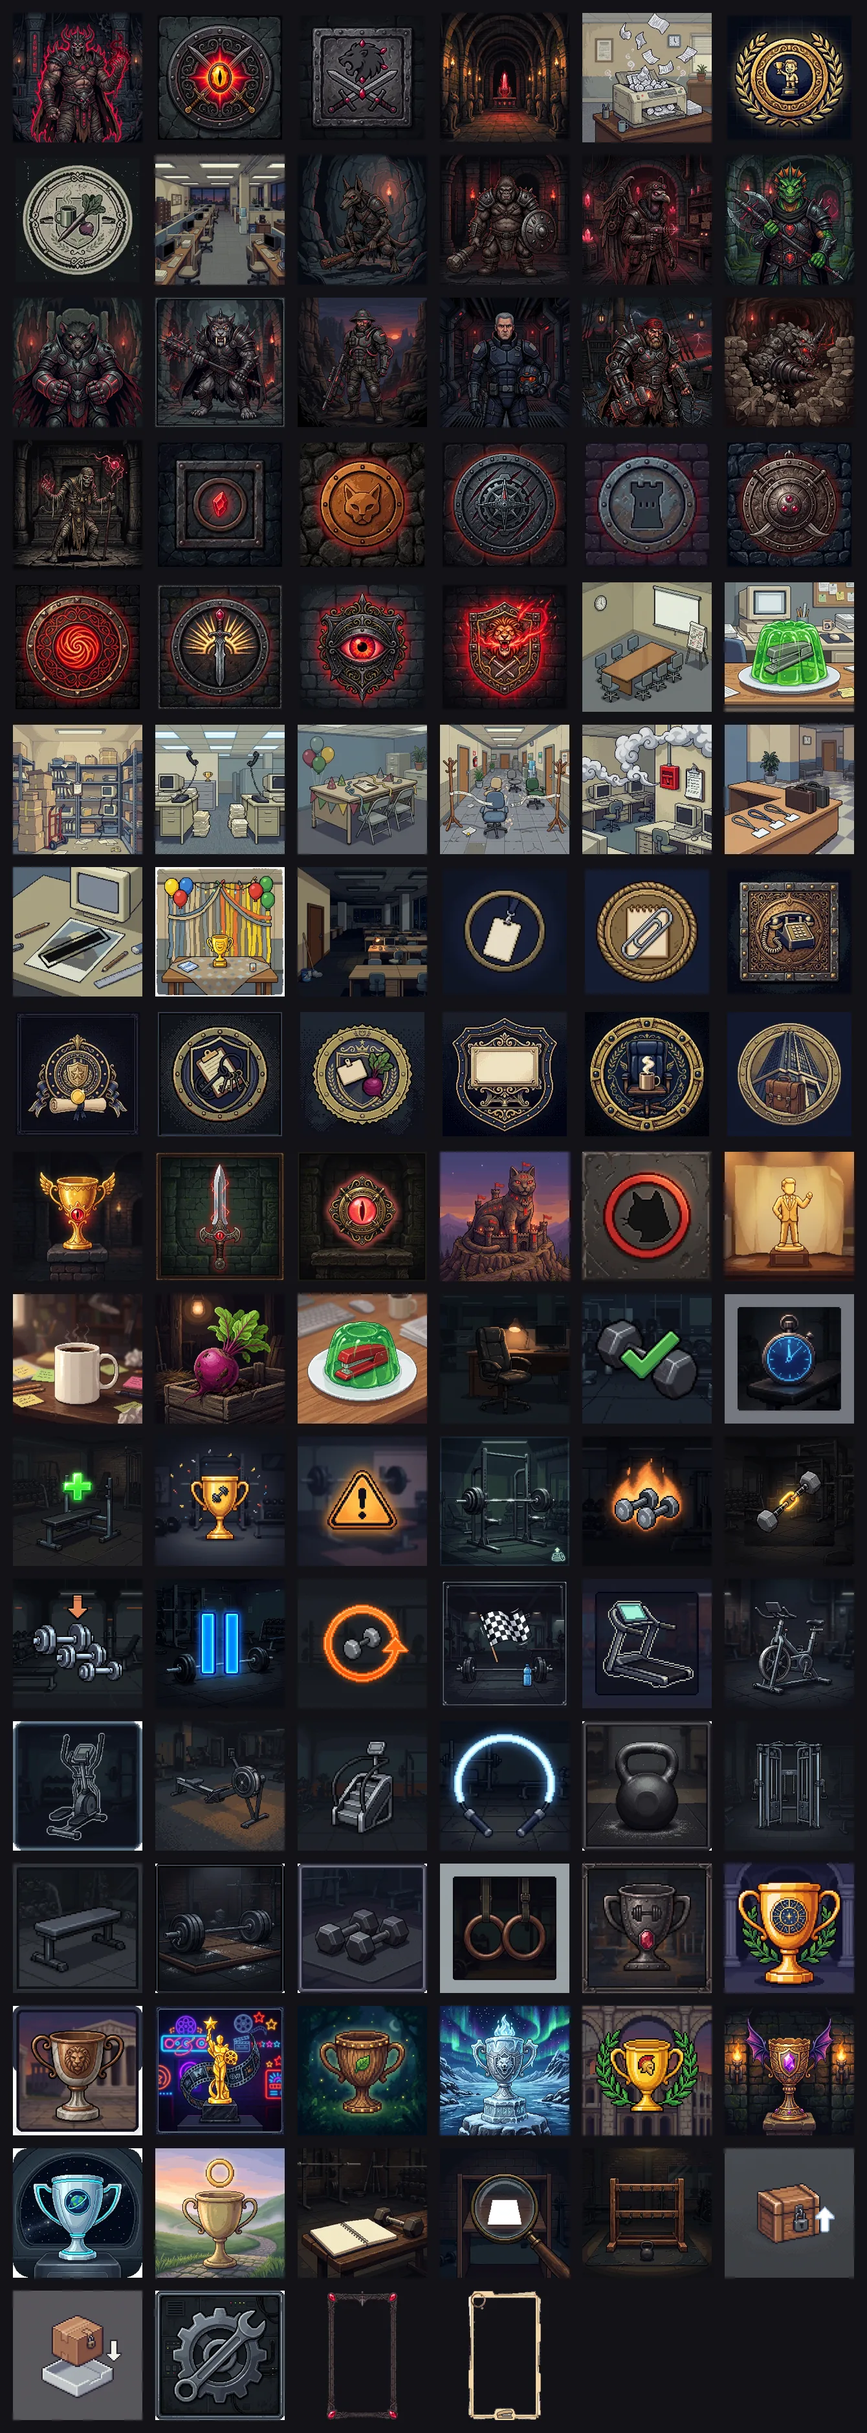
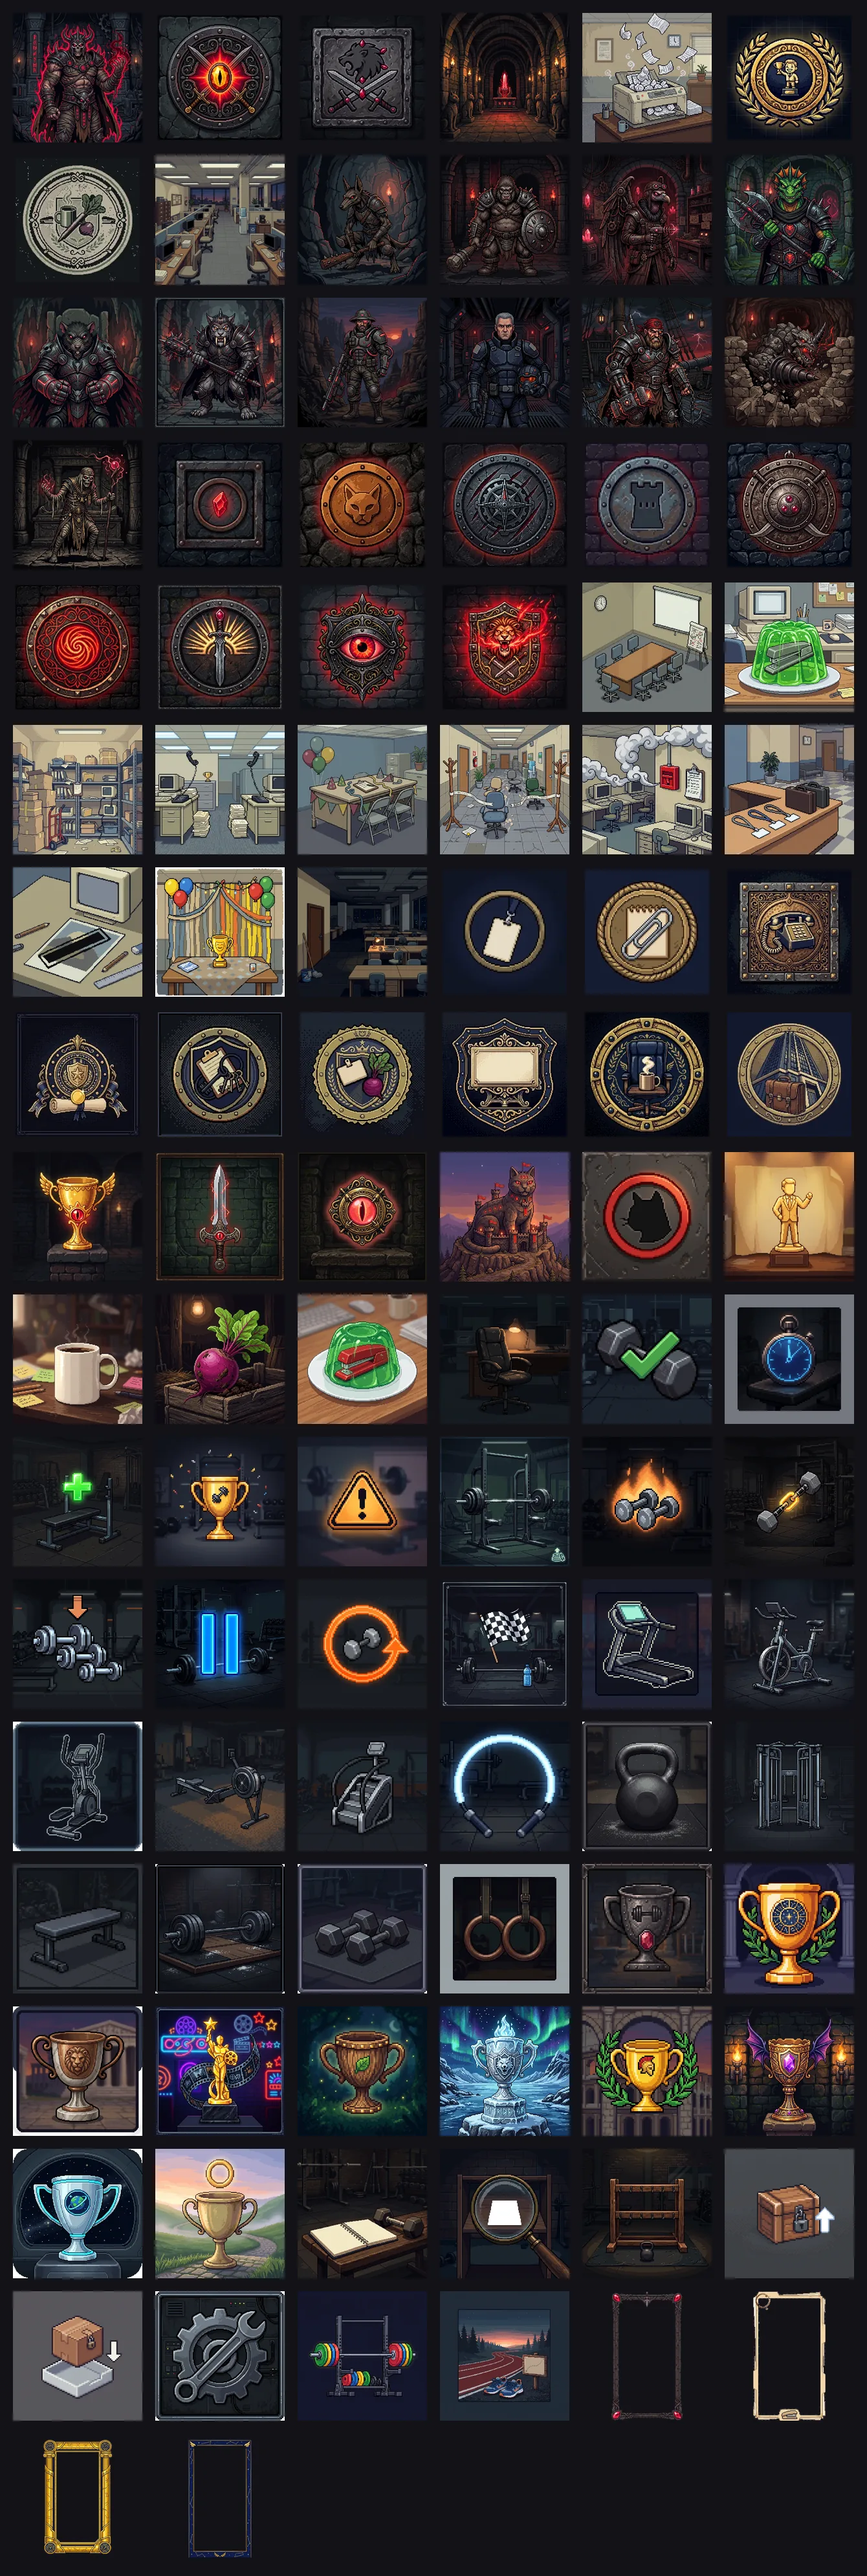
Artes lote 11 (final): fecha cartela 10 (98/98) + molduras do Zodiaco
Calculadora de anilhas e Sem corridas fecham o plano editorial 98/98. Duas molduras candidatas do Card do tema Cavaleiros do Zodiaco (Ouro do Santurario e Cosmo) com alfa por keying revisado em provas sobre card; fora do CORE, sem vinculo com a UI. Manifesto com 104 registros. Corrige tambem checagem de UI dependente da data real (descanso de deload automatico) que quebrava a suite no fechamento - somente o teste, sem mudar formulas.

diff --git a/tests/ui/30_assistente_sessao.js b/tests/ui/30_assistente_sessao.js
@@ -114,7 +114,10 @@ check('migração do save legado roda sem erro', migrationLoadOk);
 check('logs e progresso antigo migram para o tema que estava ativo', ev("activeGameThemeId === 'roma' && logs.length === 1 && logs[0].xpTheme === 'roma' && missionsXpTotal === 123 && themeGameSaves.roma.missionsClaimed['2026-W41'] === true && themeGameSaves.roma.bossPortraits.b0.includes('roma')"));
 check('testes, peso e deload são carregados como dados compartilhados', ev("tests[0].name === 'Teste compartilhado' && weightLog[0].peso === 94 && deloadWeeks.join() === '2026-W41'"));
 const legacyRomaXP = ev("computeThemeXPCtx('roma').xp");
-check('XP de treino, missão e descanso fica somente no tema migrado', legacyRomaXP > 0 && ev("computeThemeXPCtx('classico').xp === 0") && ev("themeGameSaves.roma.deloadRestDays.length === 7"), legacyRomaXP);
+// Conta só os 7 dias da W41 legada: dias de descanso de semanas de deload
+// automáticas posteriores (conforme a data real da execução) são legítimos
+// e não podem quebrar esta checagem.
+check('XP de treino, missão e descanso fica somente no tema migrado', legacyRomaXP > 0 && ev("computeThemeXPCtx('classico').xp === 0") && ev("themeGameSaves.roma.deloadRestDays.filter(d => d >= '2026-10-05' && d <= '2026-10-11').length === 7"), legacyRomaXP);
 const romaSaveBeforeSwitch = ev('JSON.stringify(themeGameSaves.roma)');
 ev("changeGameTheme('classico'); missionsXpTotal = 999; missionsClaimed = { '2026-W42': true }; seasons = { start: '2026-10-12', completed: [] }; bossPortraits = { classicoOnly: 'classico' }; saveGameState();");
 check('trocar para outro jogo não altera o save de Roma', ev('JSON.stringify(themeGameSaves.roma)') === romaSaveBeforeSwitch);

diff --git a/scripts/prepare-art-lote1.py b/scripts/prepare-art-lote1.py
@@ -363,6 +363,14 @@ PECAS = [
     ('ut-configuracoes', 'Configurações', 'app', 'utilitarios',
      'lote10-configuracoes.png', 'utilitarios/configuracoes.webp',
      (512, 512), 'nearest', 'images/artes/candidatos/utilitarios/configuracoes.webp (cartela 10; sem vínculo com UI)'),
+    # Lote 11 (final) — fecha a cartela 10 (Calculadora de anilhas, Sem
+    # corridas): 98/98 peças do plano editorial. Sem vínculo com UI.
+    ('ut-calculadora-de-anilhas', 'Calculadora de anilhas', 'app', 'utilitarios',
+     'lote11-calculadora-anilhas.png', 'utilitarios/calculadora-de-anilhas.webp',
+     (512, 512), 'nearest', 'images/artes/candidatos/utilitarios/calculadora-de-anilhas.webp (cartela 10 completa; sem vínculo com UI)'),
+    ('ut-vazio-corridas', 'Sem corridas', 'app', 'estados-vazios',
+     'lote11-sem-corridas.png', 'utilitarios/vazio-corridas.webp',
+     (512, 512), 'nearest', 'images/artes/candidatos/utilitarios/vazio-corridas.webp (cartela 10 completa, estado vazio; sem vínculo com UI)'),
 ]
 
 # Notas de revisão peça a peça que complementam a nota genérica do método
@@ -380,6 +388,9 @@ NOTAS_EXTRA = {
     'ut-backup': ' Divergência registrada: fundo cinza liso (diverge da família escura das demais peças). REGRA CUMPRIDA: caixa fechada com cadeado e seta para cima — sem check nem sinal de conclusão.',
     'ut-restauracao': ' REGRA CUMPRIDA: caixa fechada com cadeado suspensa sobre bandeja vazia e seta para baixo — nada importado, sem check nem sinal de conclusão.',
     'ut-configuracoes': ' Divergência registrada: moldura metálica decorativa em volta de todo o quadro.',
+    'ut-vazio-corridas': ' Divergência registrada: cena emoldurada com margem escura em volta do quadro; marca abstrata laranja nos tênis (sem texto).',
+    'zd-moldura-ouro-webp': ' Divergência registrada: medalhões de canto com glifos zodiacais decorativos; colunas do Santuário nas laterais.',
+    'zd-moldura-cosmo-webp': ' Divergência registrada: primeira geração descartada na revisão (brilho roxo sobre o xadrez deixava resíduo nos cantos após o keying); geração final com bordas sólidas limpas e asas menores nos cantos superiores.',
     'tf-classico': ' Divergência registrada: moldura metálica decorativa em volta de todo o quadro.',
     'tf-zodiaco': ' Divergência registrada: roda do zodíaco com glifos/constelações abstratos ilegíveis nos segmentos.',
     'tf-hercules': ' Divergência registrada: moldura escura arredondada com cantos externos claros.',
@@ -408,6 +419,17 @@ MOLDURAS = [
      'lote1-moldura-office.png', 'office/molduras/moldura-office',
      [(200, 250)], [(118, 108)],  # semente extra: xadrez ilhado dentro do anel do café
      'Overlay de moldura do Card (referência 1080×1920); precisa de alfa confiável + teste nos canvases 1080×1920/1080×1080 antes de virar em uso'),
+    # Lote 11 — novas molduras do Card do tema zodiaco (Cavaleiros do
+    # Zodíaco): duas candidatas geradas; a moldura em uso segue a desenhada
+    # por código ('ouro' em js/cartoes.js) até teste nos canvases reais.
+    ('zd-moldura-ouro', 'Moldura Zodíaco — Ouro do Santuário', 'zodiaco',
+     'lote11-moldura-zodiaco-ouro.png', 'zodiaco/molduras/moldura-zodiaco-ouro',
+     [(170, 255)], [],
+     'Overlay de moldura do Card do tema zodiaco (referência 1080×1920); candidata — precisa de alfa confiável + teste nos canvases 1080×1920/1080×1080 antes de virar em uso'),
+    ('zd-moldura-cosmo', 'Moldura Zodíaco — Cosmo', 'zodiaco',
+     'lote11-moldura-zodiaco-cosmo.png', 'zodiaco/molduras/moldura-zodiaco-cosmo',
+     [(170, 255)], [],
+     'Overlay de moldura do Card do tema zodiaco (referência 1080×1920); candidata — precisa de alfa confiável + teste nos canvases 1080×1920/1080×1080 antes de virar em uso'),
 ]
 
 RESAMPLE = {'nearest': Image.Resampling.NEAREST, 'lanczos': Image.Resampling.LANCZOS}
@@ -428,7 +450,10 @@ def key_checker(im, bands, extra_seeds):
     px = im.load()
 
     def is_checker(r, g, b):
-        if max(r, g, b) - min(r, g, b) > 6:
+        # tolerância 12: o xadrez da moldura Cosmo do Zodíaco (lote 11) veio
+        # com leve tinta azulada (dif. ~10 entre canais); ouro/azul-marinho
+        # da arte têm dif. muito maior e não são atingidos.
+        if max(r, g, b) - min(r, g, b) > 12:
             return False
         y = (r + g + b) / 3
         return any(lo <= y <= hi for lo, hi in bands)
@@ -514,6 +539,24 @@ for pid, peca, tema, fname, dest, bands, extra, uso in MOLDURAS:
         continue
     im = Image.open(src).convert('RGB')
     rgba, pct = key_checker(im, bands, extra)
+    if pid == 'zd-moldura-cosmo':
+        # Lote 11: o xadrez da Cosmo tem manchas com tinta além da tolerância
+        # do flood-fill e deixava pontilhado residual. A moldura é retangular
+        # regular (medida na fonte: janela 110..657 × 129..1246; borda externa
+        # a partir de x=45/y=60), então a janela e o exterior são limpos por
+        # geometria revisada — só o anel da moldura mantém o alfa do keying.
+        from PIL import ImageDraw
+        alpha = rgba.getchannel('A')
+        d = ImageDraw.Draw(alpha)
+        w, h = alpha.size
+        d.rectangle([0, 0, w, 59], fill=0)
+        d.rectangle([0, 1317, w, h], fill=0)
+        d.rectangle([0, 0, 44, h], fill=0)
+        d.rectangle([724, 0, w, h], fill=0)
+        d.rectangle([109, 128, 658, 1247], fill=0)
+        rgba.putalpha(alpha)
+        hist = alpha.histogram()
+        pct = hist[0] / (w * h)
     # Mestre PNG sem perda fica FORA do Git (cache); só o WebP com alfa é versionado.
     mestre = SRC / 'derivados' / (dest + '.png')
     mestre.parent.mkdir(parents=True, exist_ok=True)
@@ -527,7 +570,7 @@ for pid, peca, tema, fname, dest, bands, extra, uso in MOLDURAS:
         saida=rel(saida), largura=rgba.width, altura=rgba.height,
         formato='webp', transparencia=f'alfa por keying do xadrez pintado ({pct:.0%} do quadro; mediana 3 no alfa)',
         bytes=saida.stat().st_size, local_de_uso=uso, estado='candidato',
-        notas='Gerada SEM alfa nativo (RGB com xadrez desenhado — não é transparência). Keying flood-fill revisado em prova sobre card; halo leve nas bordas internas aceito como candidato. Mestre PNG sem perda em ' + rel(mestre) + ' (fora do Git; o script regenera). Não usar como overlay final sem novo teste nos canvases reais.'))
+        notas='Gerada SEM alfa nativo (RGB com xadrez desenhado — não é transparência). Keying flood-fill revisado em prova sobre card; halo leve nas bordas internas aceito como candidato. Mestre PNG sem perda em ' + rel(mestre) + ' (fora do Git; o script regenera). Não usar como overlay final sem novo teste nos canvases reais.' + NOTAS_EXTRA.get(f'{pid}-webp', '')))
 
 # Provas leves para revisão (montagem por código; fora do cache do app)
 OUT_PROVAS.mkdir(parents=True, exist_ok=True)
@@ -564,7 +607,7 @@ for pid, peca, tema, fname, dest, bands, extra, uso in MOLDURAS:
     m = Image.open(p)
     fundo = card.resize(m.size, Image.LANCZOS)
     fundo.paste(m, (0, 0), m)
-    fundo.save(OUT_PROVAS / f'moldura-{tema}-sobre-card.webp', 'WEBP', quality=82, method=6)
+    fundo.save(OUT_PROVAS / (Path(dest).name + '-sobre-card.webp'), 'WEBP', quality=82, method=6)
 
 # 3) cartela de revisão com TODOS os derivados (grade regular, sem legendas;
 # candidatos e, após o cadastro dos temas, também os arquivos finais)

diff --git a/docs/ARTES_THUNDERCATS_OFFICE.md b/docs/ARTES_THUNDERCATS_OFFICE.md
@@ -117,6 +117,10 @@ Originais grandes em `.cache/artes-originais/lote*.png` (≈2 MB cada; `.cache/`
 
 **Lote 10 (chamadas 91–100) — fecha a cartela 9 e abre a cartela 10:** Troféu Gladiadores de Roma, Troféu Fantasia RPG, Troféu Comando Galáctico e Troféu Senhor dos Anéis (cartela 9 completa, 10/10); Diário sem registros, Busca sem resultados, Sem treinos salvos, Backup, Restauração e Configurações (cartela 10, 6/8; lista adotada de 8, faltam Calculadora de anilhas e Sem corridas). **Backup/Restauração revisadas contra a regra dura:** caixas fechadas com cadeado e seta de direção, sem check/abertura/conclusão — a confirmação é do sistema, nunca da ilustração (registrado por peça no manifesto).
 
+**Lote 11 (final, chamadas 101–102 + molduras) — fecha a cartela 10 e o plano editorial (98/98):** Calculadora de anilhas (barra montada no rack com anilhas coloridas ordenadas por tamanho) e Sem corridas (tênis ao lado da pista vazia ao amanhecer, quadro de rota em branco com trajeto pontilhado que se apaga). **Plano editorial completo: 98/98 peças produzidas.**
+
+**Molduras novas do Card — tema Cavaleiros do Zodíaco (lote 11, fora da contagem das 98):** duas candidatas geradas, `zodiaco/molduras/moldura-zodiaco-ouro.webp` (Ouro do Santuário: colunas gregas, medalhões zodiacais nos cantos) e `moldura-zodiaco-cosmo.webp` (Cosmo: azul-meia-noite, constelações, asas douradas). Alfa por keying do xadrez pintado, **revisado nas provas sobre card** (`docs/provas-lote1/moldura-zodiaco-*-sobre-card.webp`): a Ouro saiu limpa de primeira; a Cosmo teve a 1ª geração descartada (brilho roxo sobre o xadrez) e a 2ª precisou de limpeza geométrica da janela/exterior no pipeline (anel da moldura preservado do keying). **Seguem candidatas, fora do CORE e sem vínculo com a UI** — a moldura em uso do tema continua a `ouro` desenhada por código em `js/cartoes.js`; qualquer troca exige teste nos canvases 1080×1920/1080×1080 antes.
+
 Runas/marcas decorativas nos salões e placas são abstratas, **sem nomes, números ou legendas legíveis** (conforme especificação).
 
 ### 2.2 Imagens fornecidas pelo usuário
@@ -156,7 +160,7 @@ Nos lotes 1–5, os derivados nasceram em `images/artes/candidatos/` (fora do CO
 
 ### 2.4 Artes ainda pendentes
 
-**2 peças do plano editorial** (98 − 96 concluídas) + completude de tema: cada tema novo exige **24 arquivos** para a galeria (12 retratos + 10 patentes + 1 selo + 1 fundo). **ThunderCats (24/24) e The Office (24/24) foram cadastrados na galeria nesta PR** com aprovação explícita do usuário (§6): os 48 arquivos saíram de `images/artes/candidatos/` para os caminhos finais e os registros correspondentes do manifesto estão `em uso` (ids preservados). Restam como candidatos as 10 de identidade, 12 de treino, 12 de cardio/equipamentos, os 10 troféus (cartela 9 completa), as 6 de estados vazios/utilitários do lote 10 e as 2 molduras (infraestrutura fora da contagem; os fundos são completude de tema, não constavam nas 98).
+**0 peças pendentes do plano editorial — 98/98 concluídas (lote 11)** + completude de tema: cada tema novo exige **24 arquivos** para a galeria (12 retratos + 10 patentes + 1 selo + 1 fundo). **ThunderCats (24/24) e The Office (24/24) foram cadastrados na galeria nesta PR** com aprovação explícita do usuário (§6): os 48 arquivos saíram de `images/artes/candidatos/` para os caminhos finais e os registros correspondentes do manifesto estão `em uso` (ids preservados). Restam como candidatos as 10 de identidade, 12 de treino, 12 de cardio/equipamentos, os 10 troféus (cartela 9 completa), as 8 de estados vazios/utilitários (cartela 10 completa) e as 4 molduras (2 TC/Office + 2 novas do Zodíaco; infraestrutura fora da contagem; os fundos são completude de tema, não constavam nas 98).
 
 ## 3. Provas visuais (`docs/provas-lote1/`, montadas por código)
 
@@ -194,7 +198,7 @@ As listas enviadas somam **98** (o rótulo "94" do pedido não fecha com as list
 | 7 | Treino — séries e descanso | 12 | **12 (completa)** | 0 |
 | 8 | Cardio e equipamentos | 12 | **12 (completa)** | 0 |
 | 9 | Troféus dos temas existentes | 10 | **10 (completa)** | 0 |
-| 10 | Estados vazios e utilitários | 8 | 6 (lote 10) | 2 (Calculadora de anilhas, Sem corridas) |
+| 10 | Estados vazios e utilitários | 8 | **8 (completa, lote 11)** | 0 |
 
 Notas editoriais mantidas do pedido: The Office trata situações como **desafios** (não personagens como vilões), sem violência gráfica; linguagem do tema proposta (Arena: Filial de Scranton; Boss: Desafio do expediente; Vitória: Problema resolvido; Patentes: Carreira na filial) foi **aprovada e aplicada no cadastro** (§6). Cartela 10: ilustrações de backup/restauração **nunca** podem sugerir que a operação aconteceu sem confirmação do sistema. Cartelas 7–8: o usuário decidiu **gerar tudo novo, sem reuso** dos ícones existentes (a contagem "94" fica superada; valem as 98 gerações). Os símbolos cíclicos `simbolo-ciclo-01/02` continuam ambíguos e **não** equivalem a bi-set/drop-set. Nada de regra nova de classificação de séries, conquistas ou condições de desbloqueio por causa de imagens.
 

diff --git a/CHANGELOG.md b/CHANGELOG.md
@@ -18,6 +18,7 @@ Formato baseado em [Keep a Changelog](https://keepachangelog.com/pt-BR/1.1.0/).
 - **Lote 8 (chamadas 71–80):** fecha a cartela 7 (Repetir série, Fim do treino — 12/12) e abre a cartela 8 com 8 equipamentos (Esteira a Polia; faltam 4). Manifesto com **80 registros**; plano **76/98, 22 pendentes**. Sem vínculo com UI; validação completa no fechamento da PR.
 - **Lote 9 (chamadas 81–90):** fecha a cartela 8 (Banco, Barra com anilhas, Halteres, Argolas — 12/12) e abre a cartela 9 com 6 troféus de temas (clássico a nórdica; faltam 4). Manifesto com **90 registros**; plano **86/98, 12 pendentes**. Troféus sem vínculo com conquistas/regras; validação completa no fechamento da PR.
 - **Lote 10 (chamadas 91–100):** fecha a cartela 9 (Roma, RPG, Galáctica, Anéis — 10/10) e abre a cartela 10 com 6 peças (Diário sem registros a Configurações; faltam 2). Backup/Restauração como pacotes fechados com seta, sem sinal de conclusão (regra da cartela 10). Manifesto com **100 registros**; plano **96/98, 2 pendentes**. Validação completa no fechamento da PR.
+- **Lote 11 (final):** fecha a cartela 10 (Calculadora de anilhas, Sem corridas) — **plano editorial 98/98 completo**. Extras fora da contagem: **2 novas molduras candidatas do Card do tema Cavaleiros do Zodíaco** (Ouro do Santuário e Cosmo) em `images/artes/candidatos/zodiaco/molduras/`, com alfa por keying revisado em provas sobre card; seguem fora do CORE e sem vínculo com a UI (a moldura em uso do tema continua a `ouro` desenhada por código). Manifesto com **104 registros** (48 em uso, 56 candidatos).
 
 ## [Não lançado] — faixa semanal editável por grupo
 
